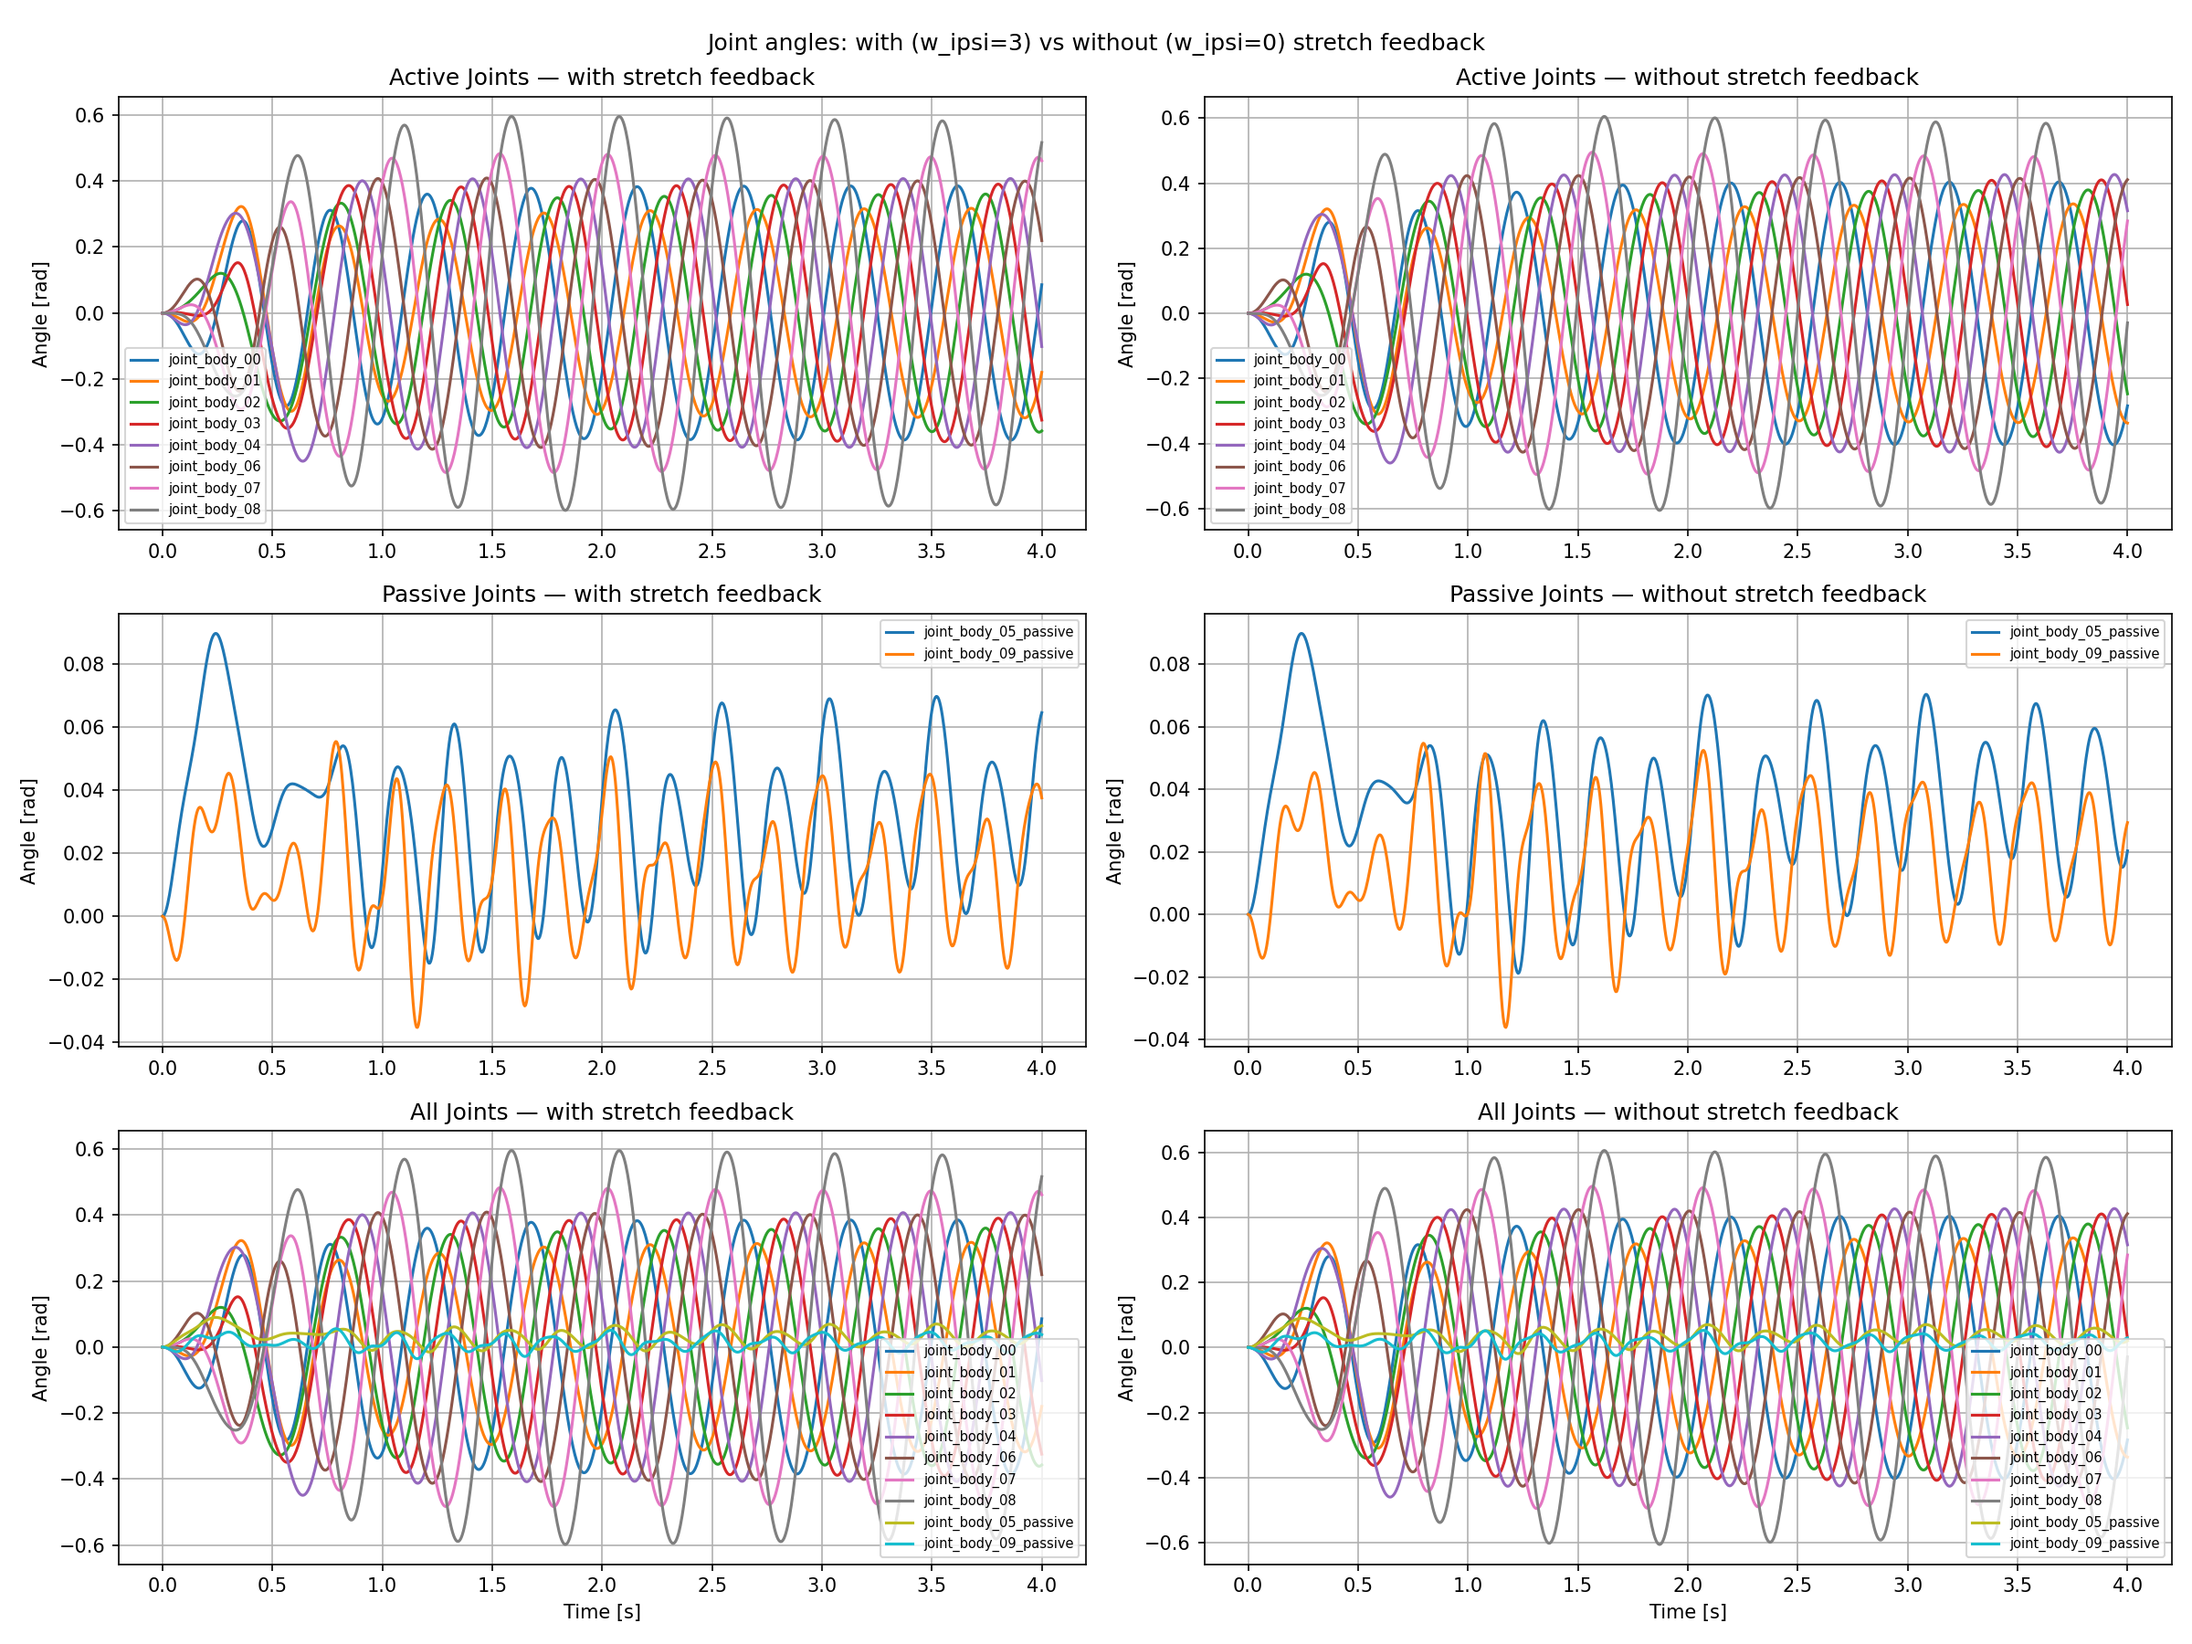
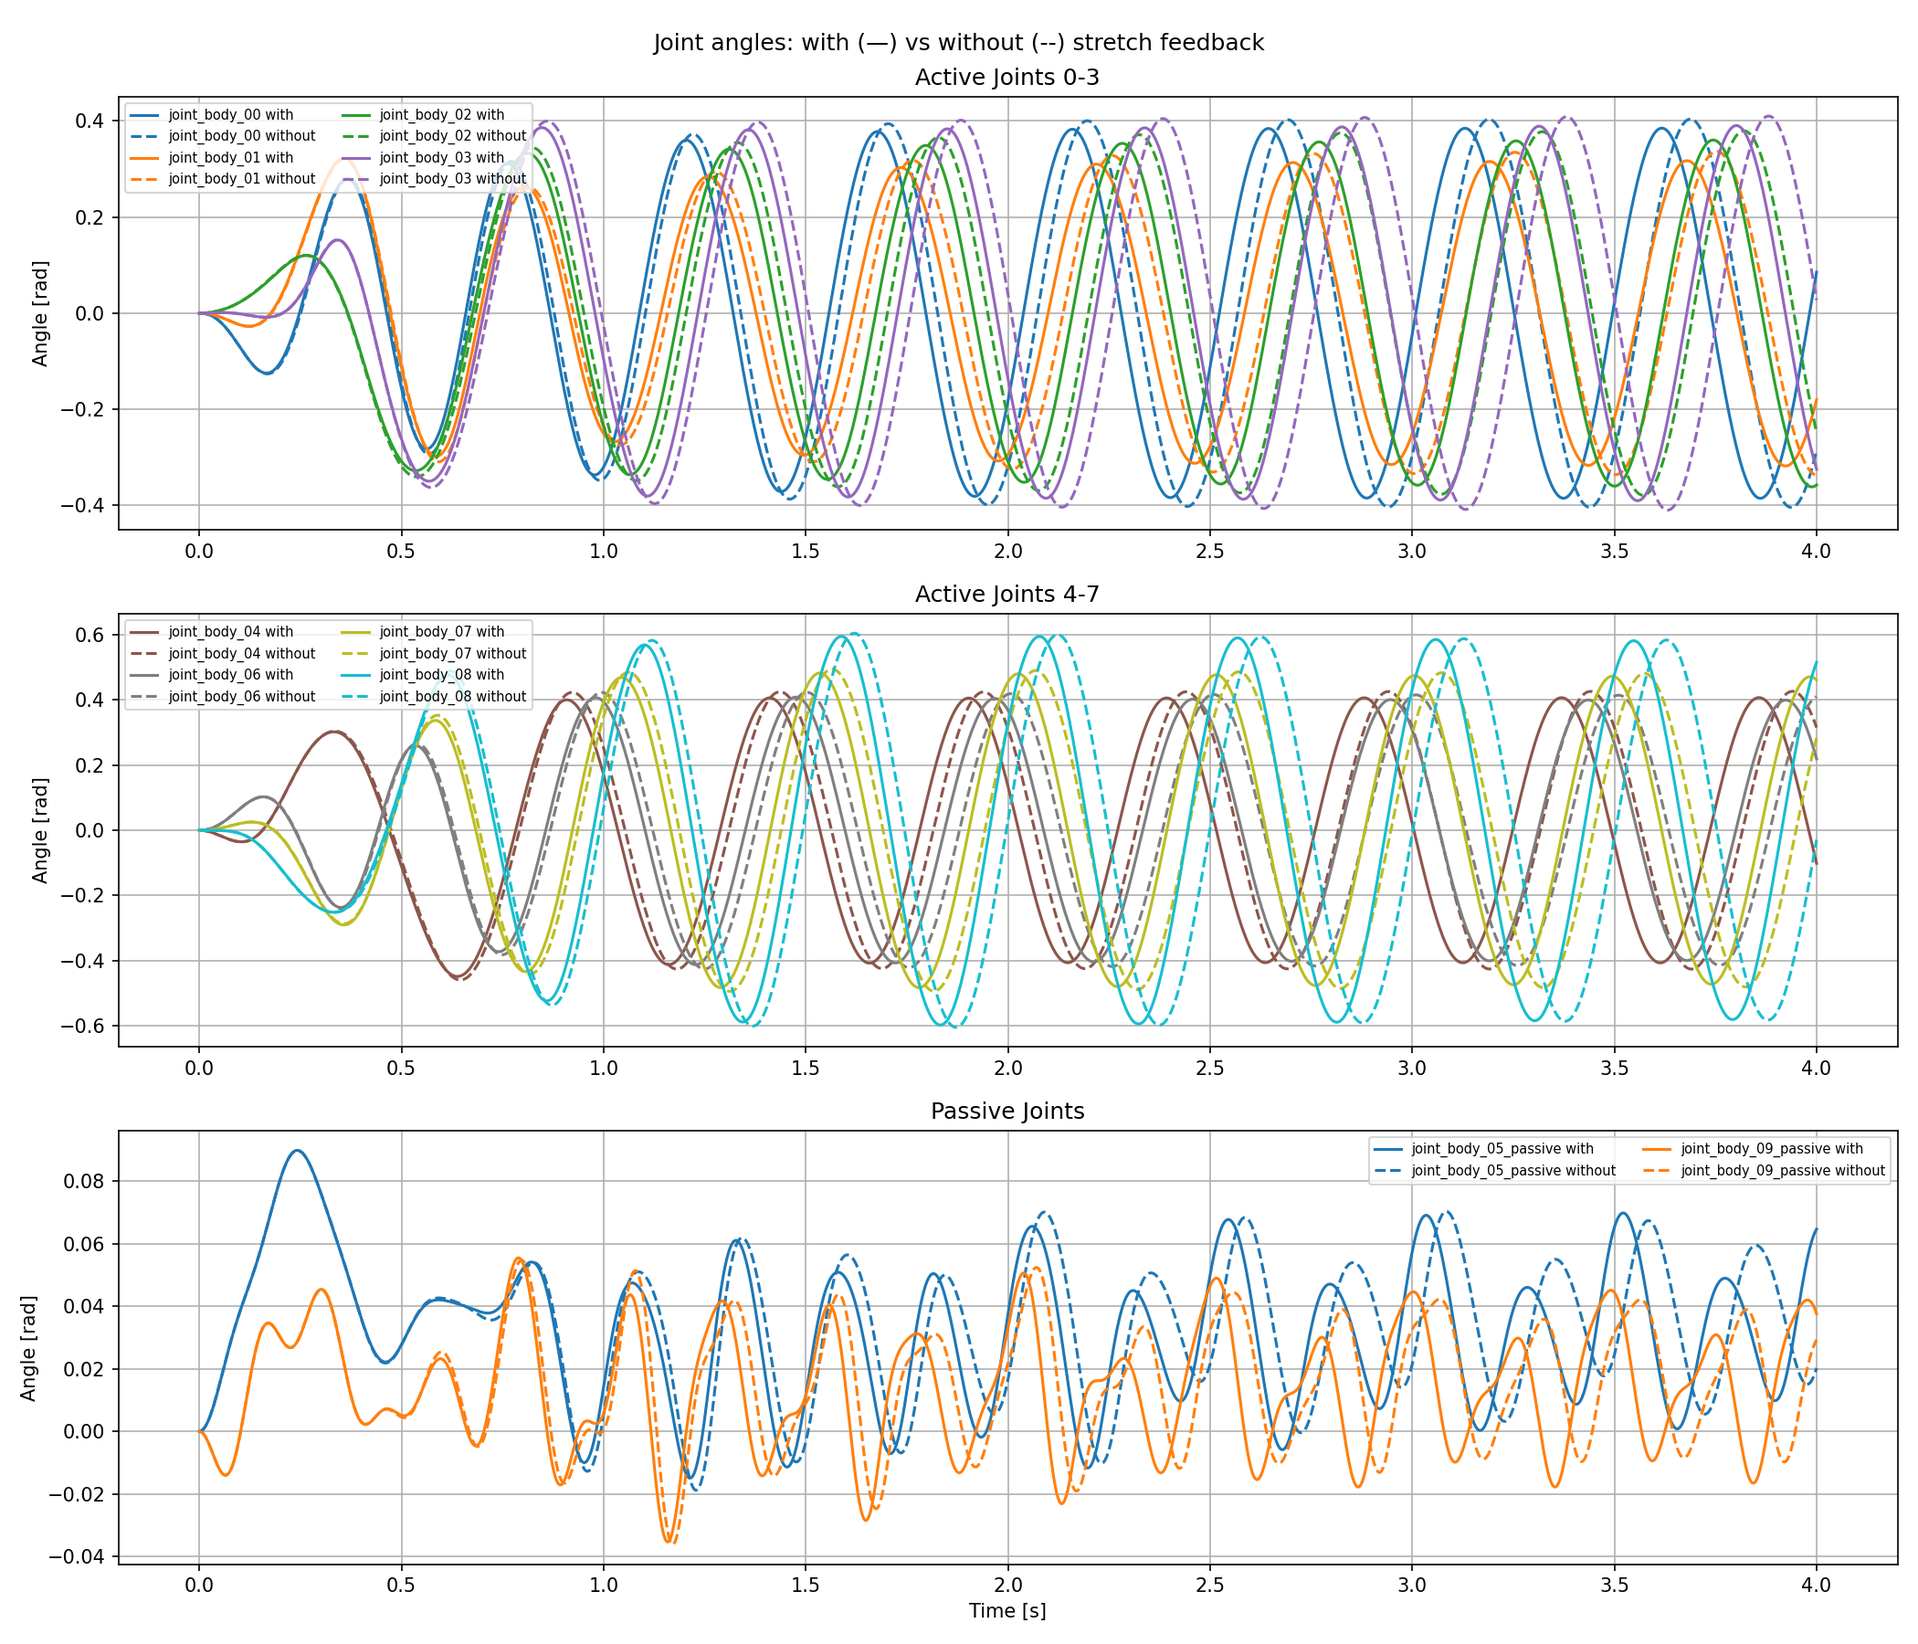
joli graph pour 3.1 joint angles

Changed region(s): [[0.0, 0.0, 0.9905, 0.9956], [0.681, 0.6533, 0.7119, 0.6844], [0.681, 0.3422, 0.7119, 0.3733]]

diff --git a/Project1/Python/exercise3_1.py b/Project1/Python/exercise3_1.py
@@ -189,8 +189,20 @@ def post_processing_3_1():
 
   
     # Joints
-    joint_angles_with    = joints_array_with[:, :8, 0]    # (n_iterations, 8)
-    joint_angles_without = joints_array_without[:, :8, 0]
+    #joint_angles_with    = joints_array_with[:, :8, 0]    # (n_iterations, 8)
+    #joint_angles_without = joints_array_without[:, :8, 0]
+    
+    joints_names_decoded = [name.decode('utf-8') for name in joints_names]
+    indices_actifs  = list(range(8))
+    indices_passifs = [16, 17]
+    noms_actifs  = [joints_names_decoded[i] for i in indices_actifs]
+    noms_passifs = [joints_names_decoded[i] for i in indices_passifs]
+
+    joint_angles_with_active    = joints_array_with[:, indices_actifs, 0]
+    joint_angles_with_passive   = joints_array_with[:, indices_passifs, 0]
+    joint_angles_without_active  = joints_array_without[:, indices_actifs, 0]
+    joint_angles_without_passive = joints_array_without[:, indices_passifs, 0]
+
     
     joints_velocities_with    = joints_array_with[:, :, 1]
     joints_torques_with       = joints_array_with[:, :, 11]
@@ -261,17 +273,61 @@ def post_processing_3_1():
     fig4.savefig(os.path.join(PLOT_PATH, 'joint_angles.png'), dpi=150)
     plt.show()
     '''
-    # ---- Figure 4: Joint angles (active + passive) ----
+    # Avec passive joints
+    
+    # V1
+    # ---- Figure 4: Joint angles ----
+    '''
     joints_names_decoded = [name.decode('utf-8') for name in joints_names]
     indices_actifs  = list(range(8))
     indices_passifs = [16, 17]
     noms_actifs  = [joints_names_decoded[i] for i in indices_actifs]
     noms_passifs = [joints_names_decoded[i] for i in indices_passifs]
 
-    joint_angles_with_active   = joints_array_with[:, indices_actifs, 0]
-    joint_angles_with_passive  = joints_array_with[:, indices_passifs, 0]
+    joint_angles_with_active    = joints_array_with[:, indices_actifs, 0]
+    joint_angles_with_passive   = joints_array_with[:, indices_passifs, 0]
     joint_angles_without_active  = joints_array_without[:, indices_actifs, 0]
     joint_angles_without_passive = joints_array_without[:, indices_passifs, 0]
+    '''
+    colors = plt.cm.tab10(np.linspace(0, 1, 8))
+
+    fig4, axs = plt.subplots(3, 1, figsize=(14, 12))
+    fig4.suptitle('Joint angles: with (—) vs without (--) stretch feedback')
+
+    # Active joints 0-3
+    for i in range(4):
+        axs[0].plot(t, joint_angles_with_active[mask, i],    color=colors[i], linestyle='-',  label=f'{noms_actifs[i]} with')
+        axs[0].plot(t, joint_angles_without_active[mask, i], color=colors[i], linestyle='--', label=f'{noms_actifs[i]} without')
+    axs[0].set_title('Active Joints 0-3')
+    axs[0].set_ylabel('Angle [rad]')
+    axs[0].legend(fontsize=7, ncol=2)
+    axs[0].grid(True)
+
+    # Active joints 4-7
+    for i in range(4, 8):
+        axs[1].plot(t, joint_angles_with_active[mask, i],    color=colors[i], linestyle='-',  label=f'{noms_actifs[i]} with')
+        axs[1].plot(t, joint_angles_without_active[mask, i], color=colors[i], linestyle='--', label=f'{noms_actifs[i]} without')
+    axs[1].set_title('Active Joints 4-7')
+    axs[1].set_ylabel('Angle [rad]')
+    axs[1].legend(fontsize=7, ncol=2)
+    axs[1].grid(True)
+
+    # Passive joints
+    for i in range(2):
+        axs[2].plot(t, joint_angles_with_passive[mask, i],    color=colors[i], linestyle='-',  label=f'{noms_passifs[i]} with')
+        axs[2].plot(t, joint_angles_without_passive[mask, i], color=colors[i], linestyle='--', label=f'{noms_passifs[i]} without')
+    axs[2].set_title('Passive Joints')
+    axs[2].set_xlabel('Time [s]')
+    axs[2].set_ylabel('Angle [rad]')
+    axs[2].legend(fontsize=7, ncol=2)
+    axs[2].grid(True)
+
+    fig4.tight_layout()
+    fig4.savefig(os.path.join(PLOT_PATH, 'joint_angles.png'), dpi=150)
+    '''
+
+    # V2
+    # ---- Figure 4: Joint angles (active + passive) ----
 
     fig4, axs = plt.subplots(3, 2, figsize=(16, 12))
     fig4.suptitle('Joint angles: with (w_ipsi=3) vs without (w_ipsi=0) stretch feedback')
@@ -310,6 +366,7 @@ def post_processing_3_1():
 
     fig4.tight_layout()
     fig4.savefig(os.path.join(PLOT_PATH, 'joint_angles.png'), dpi=150)
+    '''
     ########### Neural metrics #########
 
     # skip transient (first 2s)
